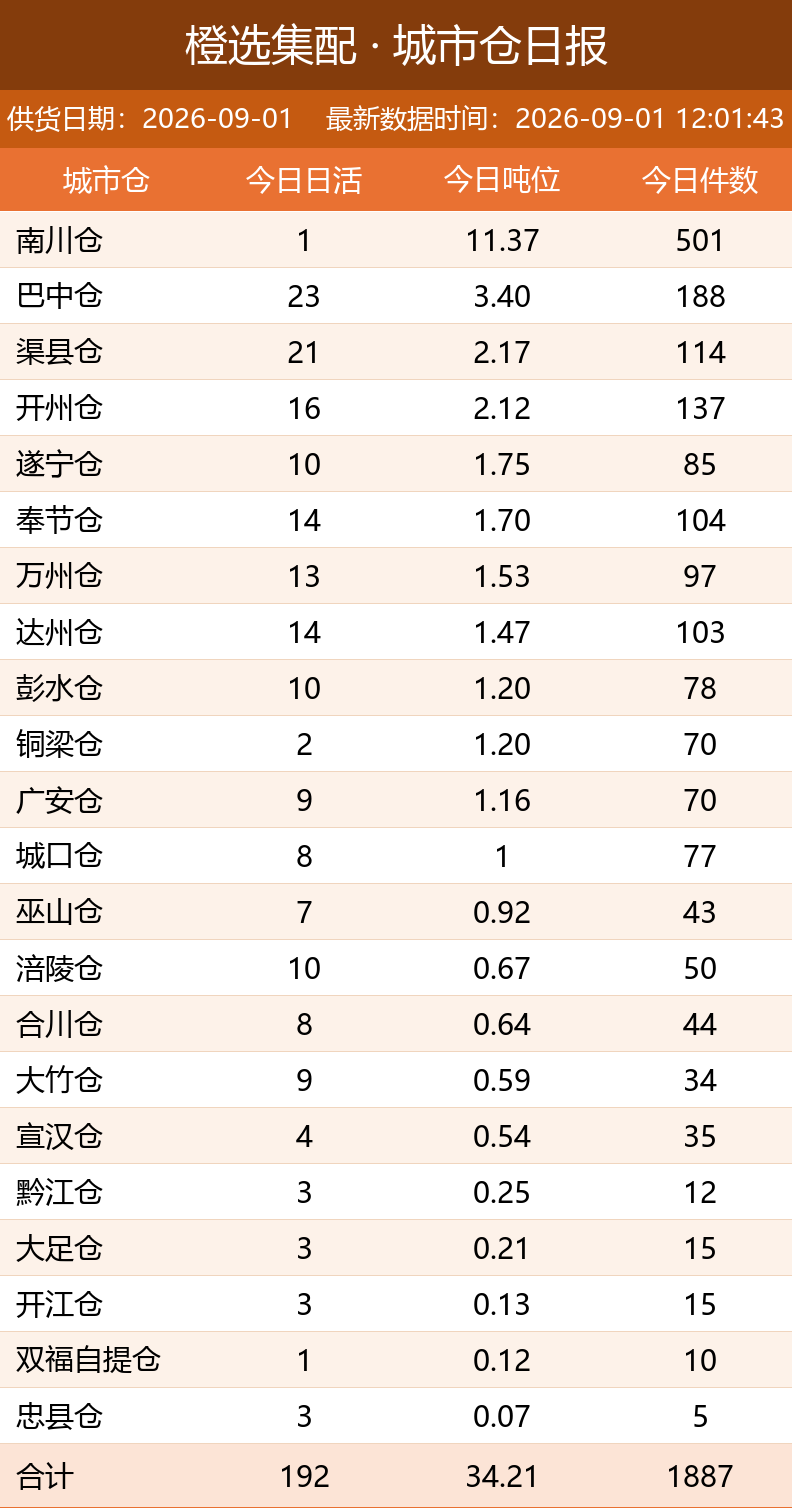
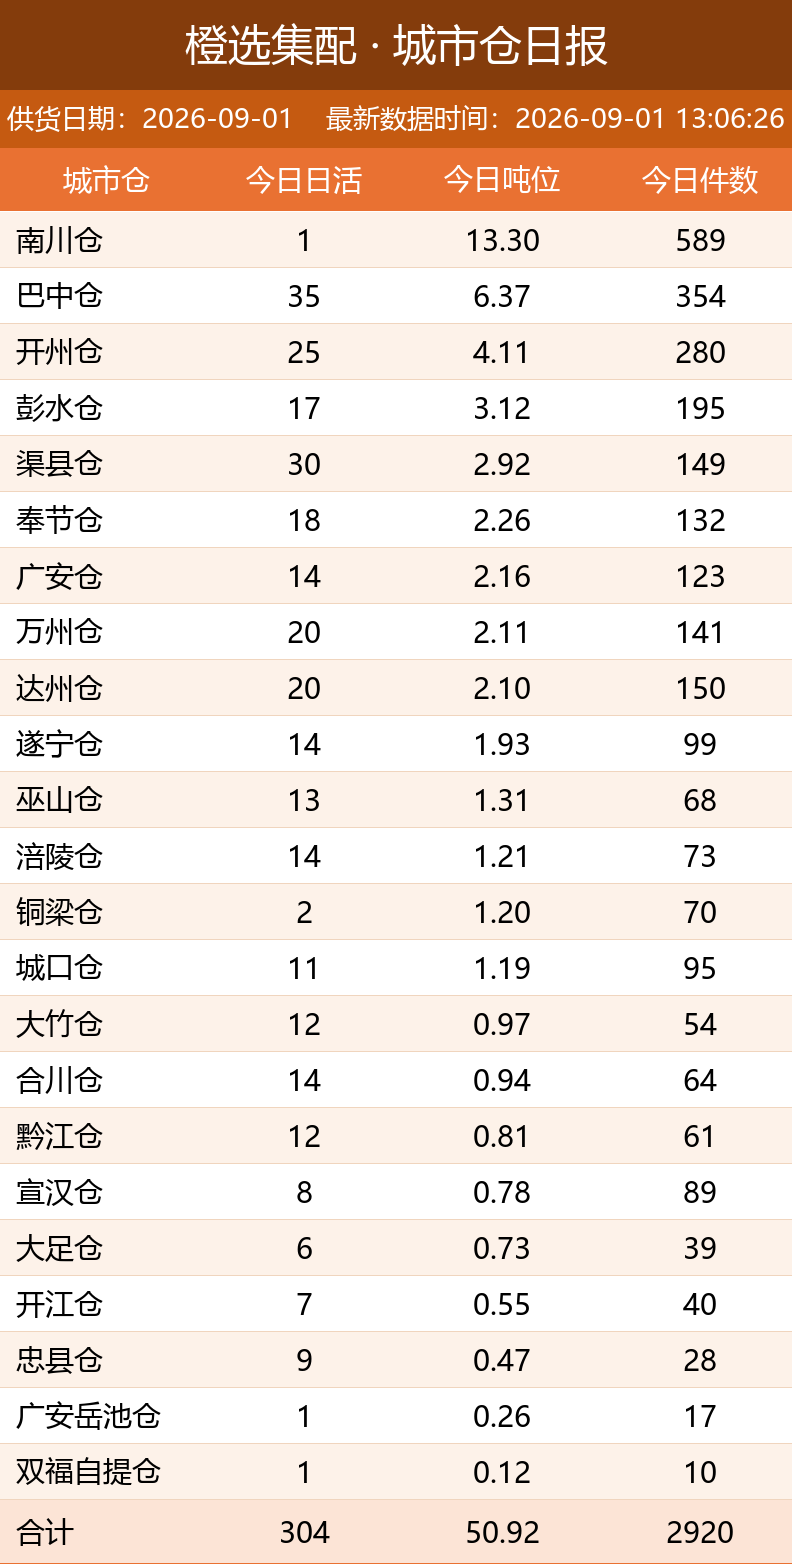
自动更新日报图片

Changed region(s): [[0.0, 0.0, 1.0, 0.9973]]

diff --git a/index.html b/index.html
@@ -11,7 +11,7 @@ img { max-width: 100%; border: 1px solid #e5e5e5; margin-bottom: 24px; display: 
 </style>
 </head>
 <body>
-<h1>橙选集配日报图片（20260901_120148）</h1>
+<h1>橙选集配日报图片（20260901_130632）</h1>
 <img src="bd_latest.png" alt="BD 日报">
 <img src="wh_latest.png" alt="城市仓日报">
 <img src="zs_latest.png" alt="招商日报">
